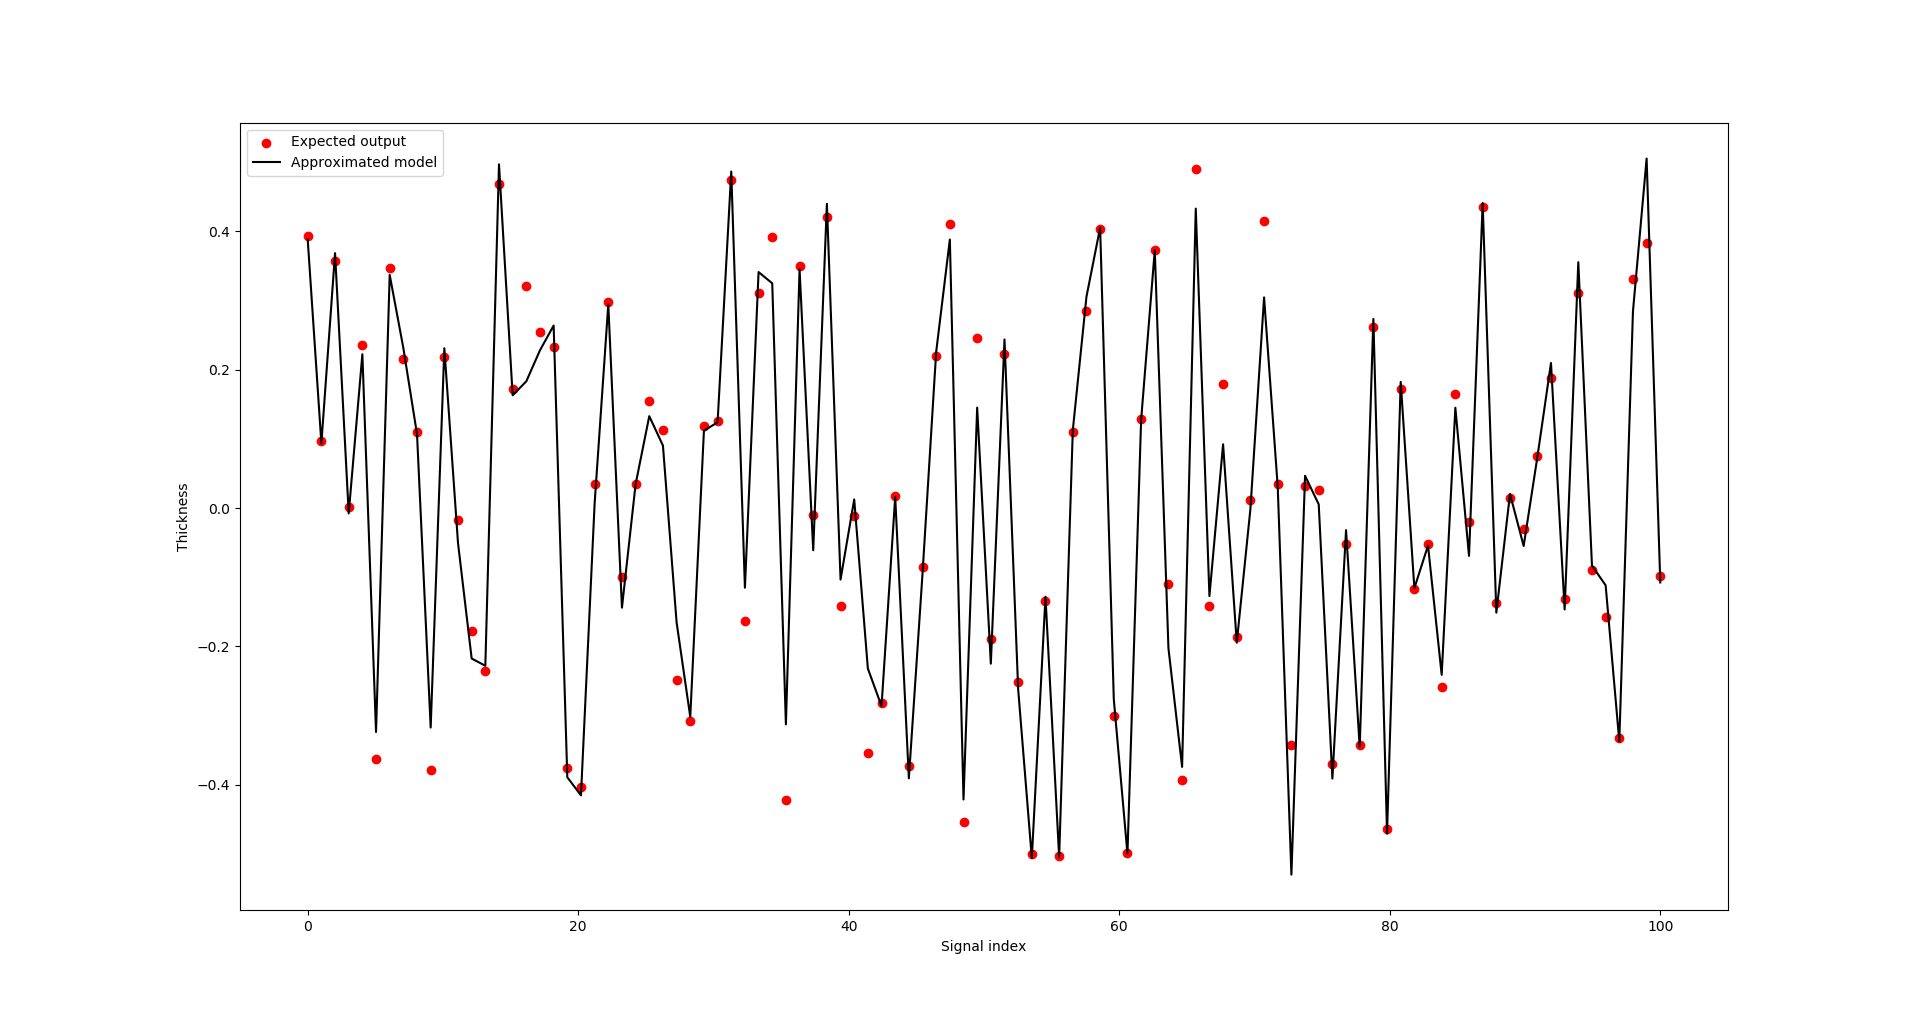
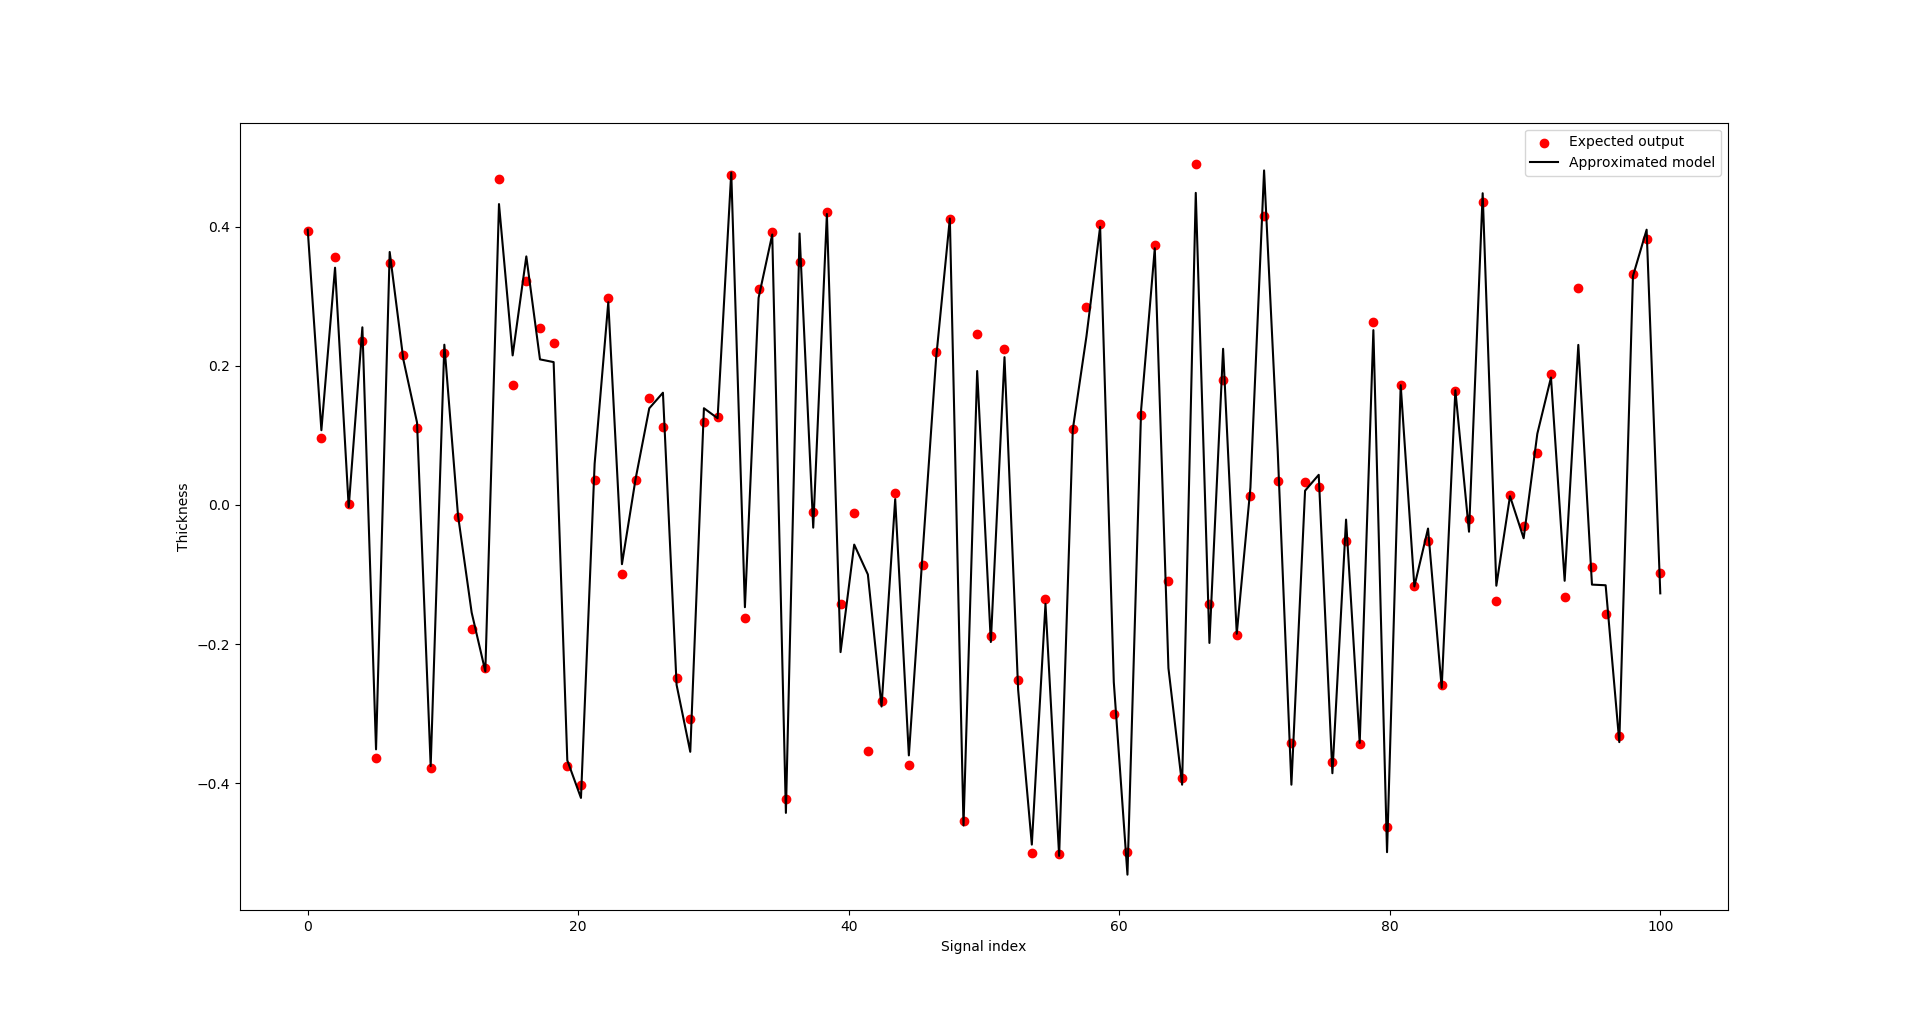
Generate new data with 50db snr, add plot, fix sigmoid function

diff --git a/ELM/ELM.py b/ELM/ELM.py
@@ -6,21 +6,22 @@ from model_func import *
 
 # filename = 'data_10.mat'
 # filename = 'data_5000.mat'
-filename = 'data_10000_100_vf.mat'
+filename = 'data_10000_50_vf.mat'
 
 print('read data')
-# start = time.time()
+start = time.time()
 training, testing, m, n = import_raw(filename)
-# end = time.time()
-# print('prepare time: ', end - start)
+end = time.time()
+print('prepare time: ', end - start)
 
-n_nodes = 4300	# number of node in the hidden layer
+n_nodes = 4700	# number of node in the hidden layer
 print('start training')
 start = time.time()
 np.random.seed(seed = None)
 input_w = np.random.normal(size = (training['signal'].shape[1], n_nodes))	# randomize input weights of the network 
 h = hidden(training['signal'], input_w)		# output of the hidden layer
 output_w = np.linalg.lstsq(h, training['thickness'], rcond = None)[0]		# use least square to find the optimal output weight 
+# output_w = np.matmul(np.linalg.pinv(h), training['thickness'])
 end = time.time()
 print('training time: ', end - start)
 
@@ -38,10 +39,10 @@ sio.savemat('network.mat', {'input_w': input_w, 'output_w': output_w, 'mean': m,
 
 # plot the first 100 samples 
 print('plot')
-plot_model(approx, testing['thickness'], n_points = 7000)
+plot_model(approx, testing['thickness'])
 
 ###########################################################################################
-# test mse
+# # test mse
 # n_nodes = 100	# number of node in the hidden layer
 # error = np.array([[]])	# initialize matrix to store all the mse 
 
@@ -52,7 +53,7 @@ plot_model(approx, testing['thickness'], n_points = 7000)
 # 	np.random.seed(seed = None)
 # 	input_w = np.random.normal(size = (training['signal'].shape[1], n_nodes))	# randomize input weights of the network 
 # 	h = hidden(training['signal'], input_w)		# output of the hidden layer
-# 	output_w = np.linalg.lstsq(h, training['thickness'])[0]		# use least square to find the optimal output weight 
+# 	output_w = np.matmul(np.linalg.pinv(h), training['thickness'])
 # 	end = time.time()
 # 	print('training time ', n_nodes/100, ': ', end - start)
 
@@ -66,9 +67,9 @@ plot_model(approx, testing['thickness'], n_points = 7000)
 # 	end = time.time()
 # 	print('testing time: ', end - start)
 
-# plot the mse 
+# # plot the mse 
 # sio.savemat('error.mat', {'error': error})
-# plt.plot(np.linspace(100, n_nodes - 100, n_nodes/100 - 1), error[0, 0:69])
+# plt.plot(np.linspace(100, n_nodes - 100, (n_nodes - 100)/100 - 1), error[0, 0:69])
 # plt.xlabel('Number of nodes')
 # plt.ylabel('Mean square error')
 # plt.show()

diff --git a/ELM/model_func.py b/ELM/model_func.py
@@ -36,12 +36,12 @@ def mse(approx, expected):
 	return np.sum((approx - expected) ** 2, axis=0)/(len(expected))		# mse to see how well the model performs 
 	
 def sigmoid(x):
-	return 1/(1 + np.exp(x))
+	return 1/(1 + np.exp(-x))
 
 def hidden(signal, input_w):
 # ha node in the hidden layer of the neural network 
 # input_w: input weight of the hidden layer 
-	return sigmoid(np.dot(signal, input_w))
+	return sigmoid(np.matmul(signal, input_w))
 
 def import_raw(filename, signal = 'data/acc_signal', thickness = 'data/thickness'):
 # load the raw data for dimension reduction and training

diff --git a/FoldsLoggin.m b/FoldsLoggin.m
@@ -27,7 +27,7 @@ close all
 %         % Vitesses des ondes transverses dans les couches
 %         vt = [1659 3100 2900] ;
 % end
-for s = 1:10000
+for s = 1:1
    
     s
 	data.thickness(s) = (round(rand() * 999) + 1)  * 10^-6
@@ -185,5 +185,5 @@ for s = 1:10000
 % 	hold on
 % 	plot(Temps, imag((signalref))/max(real(signalref)), 'r', 'LineWidth', 2) ;
 end
-data.thickness = data.thickness';
-save('data_10000_10_vf.mat', 'data');
+% data.thickness = data.thickness';
+% save('data_10000_50_vf.mat', 'data');
